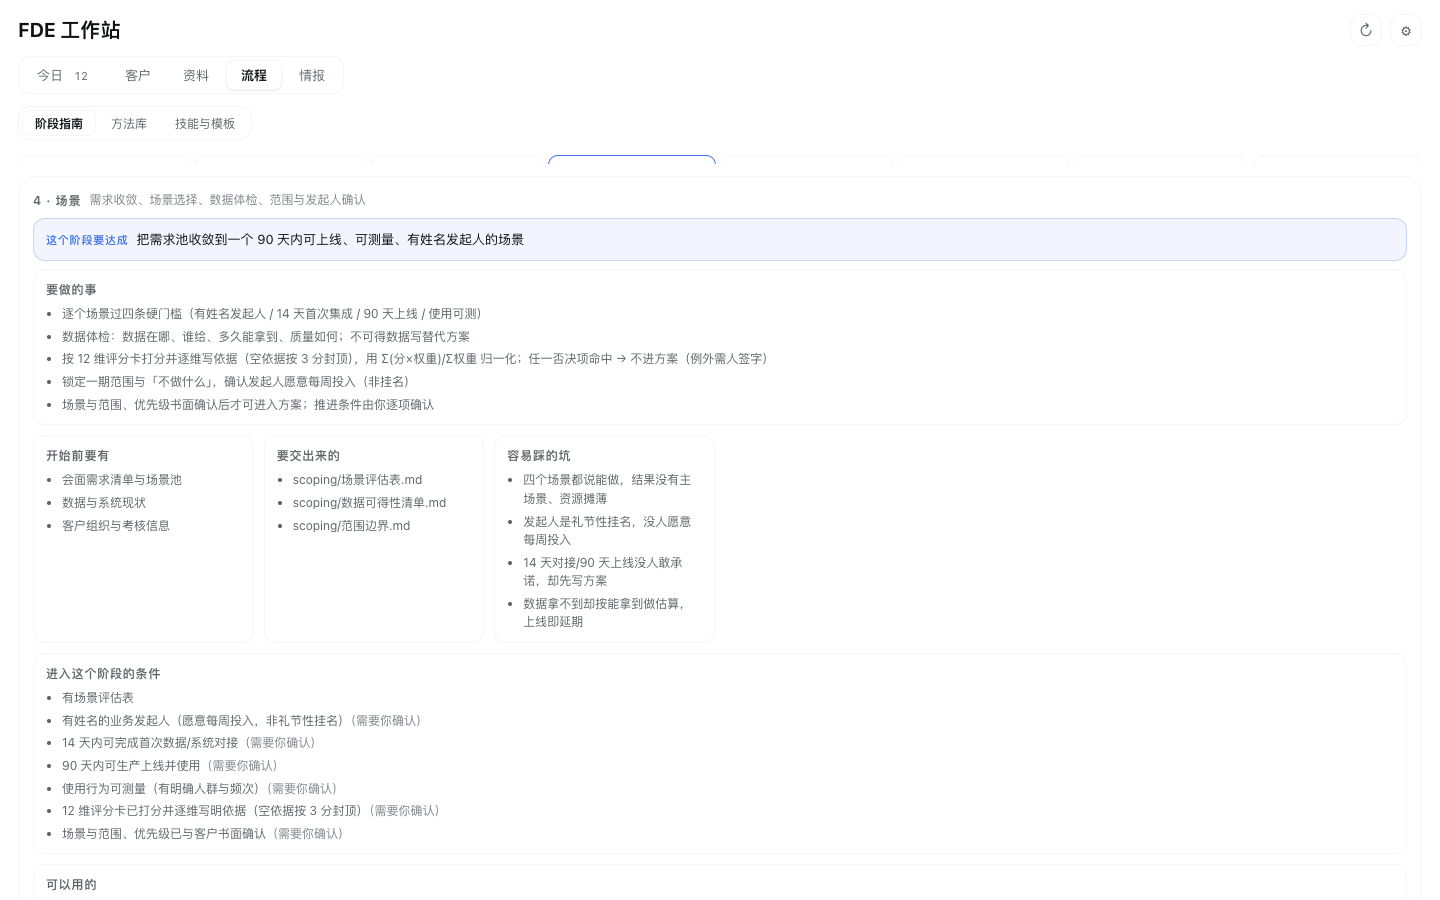
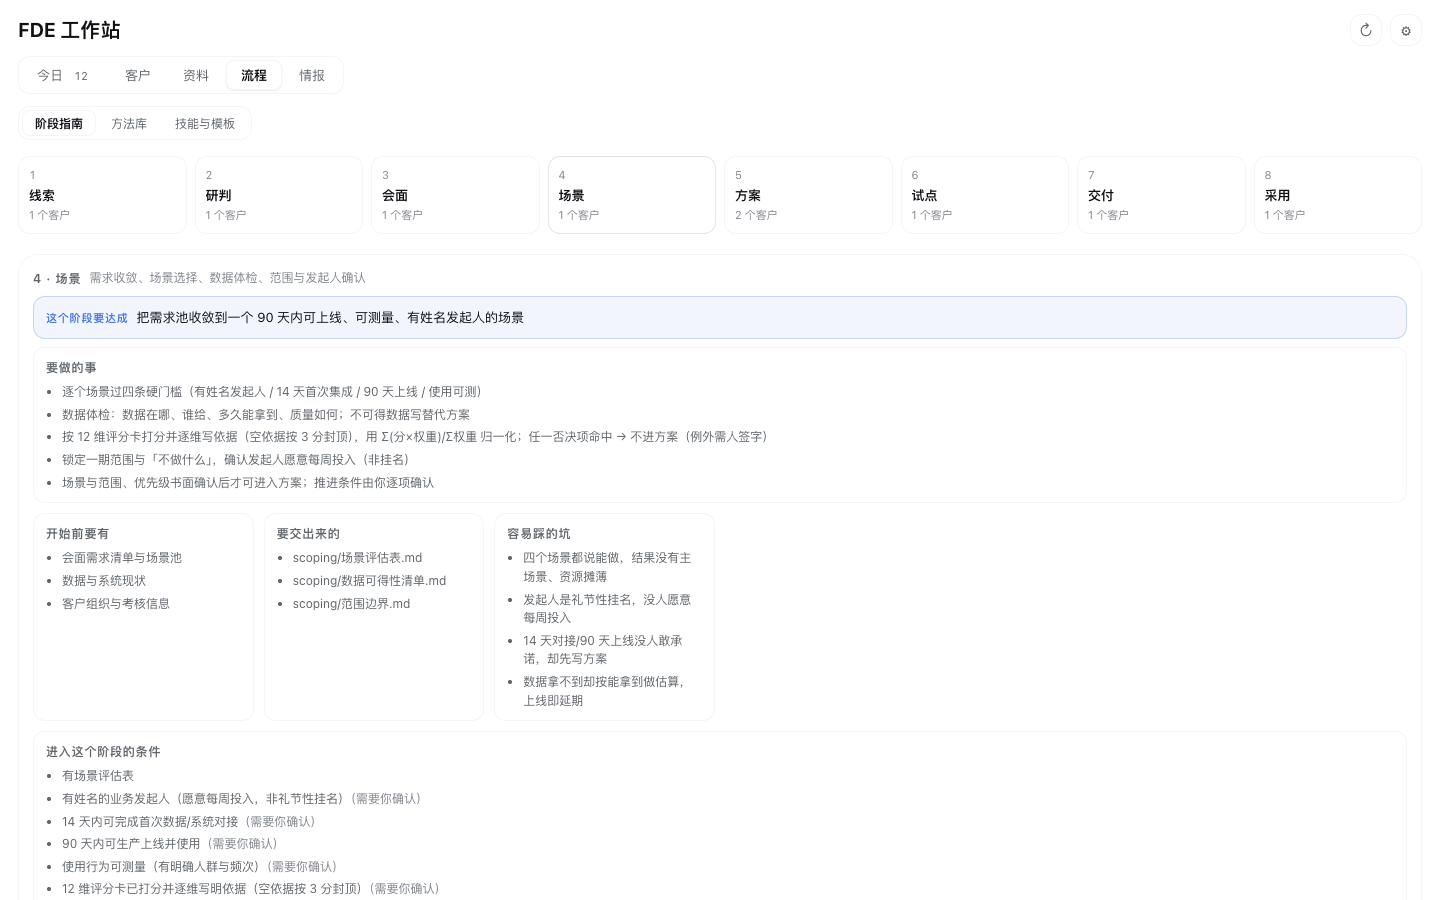
fix(panel): stop page blocks from being squashed in short windows
The stage rail on the process page collapsed to a thin line and the
customer list table was clipped with no way to scroll. Blocks with
overflow set have a zero minimum height inside a column flex layout,
so they shrank when the page content was taller than the window.

Page blocks no longer shrink by default; only blocks that fill the
remaining height and scroll inside themselves (board, today grid,
materials split view) opt in. Pages without such a block scroll as a
whole. Screenshots regenerated; static assertions and a short-window
check procedure added.

diff --git a/client.js b/client.js
@@ -246,7 +246,12 @@ window.__ModuleLoader__.load({
 
 /* ---- 主区域 ---- */
 .fde-main{flex:1 1 auto;min-height:0;overflow:auto;padding:2px 18px 24px;display:flex;flex-direction:column;gap:12px}
-.fde-view{display:flex;flex-direction:column;gap:12px;min-height:0}
+/* 页面里的区块默认不被纵向压缩。带横向滚动或裁剪的区块（阶段条、客户列表的表格）
+   在窗口不够高时会被压扁，甚至只剩一条边；内容多了应该是整页往下滚。
+   只有「占满剩余高度、在自己里面滚动」的区块才允许收缩，它们各自声明 flex:1 1 auto;min-height:0
+   （看板、今日四块、资料双栏）。下面三条的先后顺序不能换：后写的同级规则才能盖过前面的。 */
+.fde-view{display:flex;flex-direction:column;gap:12px;min-height:0;flex-shrink:0}
+.fde-view > *{flex-shrink:0}
 .fde-view-fill{flex:1 1 auto;min-height:0}
 
 /* ---- 通用：按钮 / 输入 / 芯片 / 卡片 ---- */
@@ -448,7 +453,7 @@ window.__ModuleLoader__.load({
 .fde-stat-num-sm{font-size:13px;font-weight:600;letter-spacing:0;line-height:1.4;word-break:break-word}
 
 /* ---- 流程 v2（v1.3，spec §20.5）：阶段步进 / 详情 / 工具 chips / 矩阵 ---- */
-.fde-flow{display:flex;gap:8px;overflow-x:auto;padding:4px 0 8px;align-items:stretch}
+.fde-flow{display:flex;gap:8px;overflow-x:auto;padding:4px 0 8px;align-items:stretch;flex:0 0 auto}
 .fde-flow-step{flex:1 1 0;min-width:104px;display:flex;flex-direction:column;gap:3px;padding:9px 10px;
   border-radius:var(--dsw-radius-md,12px);border:0.5px solid var(--fde-border);background:var(--fde-surface-2);
   color:var(--fde-text);cursor:pointer;text-align:left;font:inherit;transition:border-color .15s,background .15s}
@@ -4984,7 +4989,7 @@ drawerAnswerPh: '你的回复（可以不填）', drawerResolve: '已处理',
           h('div', { className: 'fde-hint', style: { marginTop: 8 } }, t('libFootnote')));
       }
 
-      return h('div', { className: 'fde-view fde-view-fill' }, topCard, featuredBlock, listCard);
+      return h('div', { className: 'fde-view' }, topCard, featuredBlock, listCard);
     }
 
     /* ============================================================
@@ -5178,7 +5183,7 @@ drawerAnswerPh: '你的回复（可以不填）', drawerResolve: '已处理',
           ],
         })) : null;
 
-      return h('div', { className: 'fde-view fde-view-fill' },
+      return h('div', { className: 'fde-view' },
         !hasPlaybook && stages.length ? h(MsgLine, { kind: 'warn', text: t('processNoPlaybook') }) : null,
         stages.length
           ? h('div', { className: 'fde-flow', role: 'tablist', 'aria-label': t('processTitle') }, stages.map(stepNode))
@@ -6264,7 +6269,8 @@ drawerAnswerPh: '你的回复（可以不填）', drawerResolve: '已处理',
     function CustomersPage(props) {
       const p = props || {};
       const tab = p.tab === 'board-item' ? 'board-item' : (p.tab === 'list' ? 'list' : 'board-customer');
-      return h('div', { className: 'fde-view fde-view-fill' },
+      /* 看板在自己里面滚动，要占满高度；列表跟着整页滚 */
+      return h('div', { className: 'fde-view' + (tab === 'list' ? '' : ' fde-view-fill') },
         PageTabs({
           ariaLabel: t('customersViews'),
           value: tab,
@@ -6301,7 +6307,7 @@ drawerAnswerPh: '你的回复（可以不填）', drawerResolve: '已处理',
     function KnowledgePage(props) {
       const p = props || {};
       const tab = p.tab === 'bids' ? 'bids' : 'library';
-      return h('div', { className: 'fde-view fde-view-fill' },
+      return h('div', { className: 'fde-view' },
         PageTabs({
           ariaLabel: t('knowledgeTabs'),
           value: tab,
@@ -6322,7 +6328,7 @@ drawerAnswerPh: '你的回复（可以不填）', drawerResolve: '已处理',
     function ProcessPage(props) {
       const p = props || {};
       const tab = p.tab === 'methods' || p.tab === 'skills' ? p.tab : 'flow';
-      return h('div', { className: 'fde-view fde-view-fill' },
+      return h('div', { className: 'fde-view' },
         PageTabs({
           ariaLabel: t('processTabs'),
           value: tab,

diff --git a/src/ui/ui-panel.js b/src/ui/ui-panel.js
@@ -246,7 +246,12 @@ window.__ModuleLoader__.load({
 
 /* ---- 主区域 ---- */
 .fde-main{flex:1 1 auto;min-height:0;overflow:auto;padding:2px 18px 24px;display:flex;flex-direction:column;gap:12px}
-.fde-view{display:flex;flex-direction:column;gap:12px;min-height:0}
+/* 页面里的区块默认不被纵向压缩。带横向滚动或裁剪的区块（阶段条、客户列表的表格）
+   在窗口不够高时会被压扁，甚至只剩一条边；内容多了应该是整页往下滚。
+   只有「占满剩余高度、在自己里面滚动」的区块才允许收缩，它们各自声明 flex:1 1 auto;min-height:0
+   （看板、今日四块、资料双栏）。下面三条的先后顺序不能换：后写的同级规则才能盖过前面的。 */
+.fde-view{display:flex;flex-direction:column;gap:12px;min-height:0;flex-shrink:0}
+.fde-view > *{flex-shrink:0}
 .fde-view-fill{flex:1 1 auto;min-height:0}
 
 /* ---- 通用：按钮 / 输入 / 芯片 / 卡片 ---- */
@@ -448,7 +453,7 @@ window.__ModuleLoader__.load({
 .fde-stat-num-sm{font-size:13px;font-weight:600;letter-spacing:0;line-height:1.4;word-break:break-word}
 
 /* ---- 流程 v2（v1.3，spec §20.5）：阶段步进 / 详情 / 工具 chips / 矩阵 ---- */
-.fde-flow{display:flex;gap:8px;overflow-x:auto;padding:4px 0 8px;align-items:stretch}
+.fde-flow{display:flex;gap:8px;overflow-x:auto;padding:4px 0 8px;align-items:stretch;flex:0 0 auto}
 .fde-flow-step{flex:1 1 0;min-width:104px;display:flex;flex-direction:column;gap:3px;padding:9px 10px;
   border-radius:var(--dsw-radius-md,12px);border:0.5px solid var(--fde-border);background:var(--fde-surface-2);
   color:var(--fde-text);cursor:pointer;text-align:left;font:inherit;transition:border-color .15s,background .15s}
@@ -4984,7 +4989,7 @@ drawerAnswerPh: '你的回复（可以不填）', drawerResolve: '已处理',
           h('div', { className: 'fde-hint', style: { marginTop: 8 } }, t('libFootnote')));
       }
 
-      return h('div', { className: 'fde-view fde-view-fill' }, topCard, featuredBlock, listCard);
+      return h('div', { className: 'fde-view' }, topCard, featuredBlock, listCard);
     }
 
     /* ============================================================
@@ -5178,7 +5183,7 @@ drawerAnswerPh: '你的回复（可以不填）', drawerResolve: '已处理',
           ],
         })) : null;
 
-      return h('div', { className: 'fde-view fde-view-fill' },
+      return h('div', { className: 'fde-view' },
         !hasPlaybook && stages.length ? h(MsgLine, { kind: 'warn', text: t('processNoPlaybook') }) : null,
         stages.length
           ? h('div', { className: 'fde-flow', role: 'tablist', 'aria-label': t('processTitle') }, stages.map(stepNode))
@@ -6264,7 +6269,8 @@ drawerAnswerPh: '你的回复（可以不填）', drawerResolve: '已处理',
     function CustomersPage(props) {
       const p = props || {};
       const tab = p.tab === 'board-item' ? 'board-item' : (p.tab === 'list' ? 'list' : 'board-customer');
-      return h('div', { className: 'fde-view fde-view-fill' },
+      /* 看板在自己里面滚动，要占满高度；列表跟着整页滚 */
+      return h('div', { className: 'fde-view' + (tab === 'list' ? '' : ' fde-view-fill') },
         PageTabs({
           ariaLabel: t('customersViews'),
           value: tab,
@@ -6301,7 +6307,7 @@ drawerAnswerPh: '你的回复（可以不填）', drawerResolve: '已处理',
     function KnowledgePage(props) {
       const p = props || {};
       const tab = p.tab === 'bids' ? 'bids' : 'library';
-      return h('div', { className: 'fde-view fde-view-fill' },
+      return h('div', { className: 'fde-view' },
         PageTabs({
           ariaLabel: t('knowledgeTabs'),
           value: tab,
@@ -6322,7 +6328,7 @@ drawerAnswerPh: '你的回复（可以不填）', drawerResolve: '已处理',
     function ProcessPage(props) {
       const p = props || {};
       const tab = p.tab === 'methods' || p.tab === 'skills' ? p.tab : 'flow';
-      return h('div', { className: 'fde-view fde-view-fill' },
+      return h('div', { className: 'fde-view' },
         PageTabs({
           ariaLabel: t('processTabs'),
           value: tab,

diff --git a/CHANGELOG.md b/CHANGELOG.md
@@ -39,6 +39,7 @@
 - 从客户抽屉跳到阶段指南后，以后每次打开流程页都停在那个阶段。
 - 按提醒处理「没定下一步」时，如果你已经自己写了下一步，会被占位文字覆盖。现在只补空着的。
 - 导入文件夹后的结果提示一闪而过，而且报的是勾选数不是实际导入数。
+- **阶段指南的阶段条被压扁，只剩一条边**；客户列表在窗口不够高时下半截被裁掉、也滚不动。原因是带滚动或裁剪的区块在高度受限的页面里被纵向压缩。现在页面里的区块默认不压缩，内容多了整页往下滚；只有看板、今日四块、资料双栏在自己里面滚动。这个问题是装到桌面端后才发现的——发布时配的流程页截图里其实已经坏了，没有逐张看出来。截图已重做，并补了矮窗口下的检查方法（`docs/DEVELOPING.md` §6）。
 
 ### DSH 0.2.1 兼容
 
@@ -65,9 +66,9 @@
 ### 开发
 
 - `node build.mjs` 新增两项检查：文案字典完整、面板禁词（实现在 `tools/panel-checks.mjs`）。
-- 验证：宿主测试 318 → 492 项，面板准运行时测试 191 → 245 项，面板静态检查 105 → 132 项，独立审计 669 → 696 项。界面契约体检 8 项全过、漂移 0 项（1.7.0 是 2 项漂移）。
+- 验证：宿主测试 318 → 492 项，面板准运行时测试 191 → 245 项，面板静态检查 105 → 136 项，独立审计 669 → 696 项。界面契约体检 8 项全过、漂移 0 项（1.7.0 是 2 项漂移）。
 - 发布前请了一次独立代码审查：没有发现会报错或写坏数据的问题；指出的 9 条行为缺陷已全部修复并补了测试（见上面「修掉的缺陷」后半段）。
-- 样式表清掉 42 条已无引用的规则；文案字典清掉 51 个废弃 key。客户端体积 386.8KB → 380.2KB。
+- 样式表清掉 42 条已无引用的规则；文案字典清掉 51 个废弃 key。客户端体积 386.8KB → 380.4KB。
 
 ### 已知限制
 

diff --git a/docs/DEVELOPING.md b/docs/DEVELOPING.md
@@ -130,6 +130,14 @@ python3 probe.py           # DOM 度量
 
 它直接加载 `ui-panel.js` 源码、伪造 `slots`/`uiWorkspace`、用插件自己的宿主业务层跑合成数据；改完面板用它截图**亲眼看过**再提交。真实宿主行为（登录态、窗口 chrome、用户字号）仍需重启后人工验收。
 
+**矮窗口也要看。** 只看 1440×900 会漏掉被压扁的区块：2.0.0 的阶段条和客户列表就是这样漏的（截图里其实已经坏了，没有人逐张看）。改了布局，至少在 1440×620 和 900×520 再截一遍，并检查有没有这样的区块：自己带滚动或裁剪（`overflow` 不是 `visible`），内容高度却超过自身高度，而它又不是设计成纵向滚动的容器。
+
+布局规则（`ui-panel.js` 的样式表里有同样的注释）：
+
+- 页面里的区块默认不被纵向压缩（`.fde-view > *{flex-shrink:0}`），内容多了整页往下滚。
+- 只有「占满剩余高度、在自己里面滚动」的区块才允许收缩，自己声明 `flex:1 1 auto;min-height:0`——目前是看板、今日四块、资料双栏。它们所在的页面才用 `fde-view-fill`。
+- 新增带 `overflow` 的区块（横向滚动条、圆角裁剪的表格）时，先想清楚它属于哪一类。
+
 > v2.0 起面板按文档 base 解析接口地址（与 DSH 0.2.1 一致）。这个 harness 的页面在 `/harness/` 下，要在 `page.html` 的 `<head>` 里加一行 `<base href="/">`，接口才会打到 `/research-workbench/api/…`；推进条件核对（`POST /fde/gate`，不带 `checks` / `force`）和文件预览（`GET /api/file`）也要在 `server.mjs` 里接到真实实现，否则抽屉显示「核对中」、预览显示读取失败。
 
 ## 7. 发布

diff --git a/AGENTS.md b/AGENTS.md
@@ -100,6 +100,7 @@
 16. **面板文案**：新文案进 `DICT`（或就地写中文），不拼接 key；`node build.mjs` 会拦缺 key 与禁词（清单在 `tools/panel-checks.mjs`）。说明文字只留三类：后果提示、空状态的下一步、口径提示。
 17. **提醒口径（spec §22.2）**：与「待我处理」重复的四条规则（`stall` / `overdue` / `gate_ready` / `review_lag`）标 `derived`，不生成提醒；条件不成立的提醒自动失效；无变化时读取不写盘。
 18. **阶段口径（spec §22.9）**：推进条件属于**要进入的那个阶段**——客户停在某一列，表示这一列的材料已经有了。抽屉里的推进条件、看板卡片的「待确认」、交给 AI 用的做法与技能、指南链接，四处都取要进入的阶段（最后一个阶段取当前阶段）；改其中一处要同时核对另外三处。
+19. **布局口径**：页面里的区块默认不被纵向压缩，内容多了整页往下滚；只有「占满剩余高度、在自己里面滚动」的区块（看板、今日四块、资料双栏）自己声明 `flex:1 1 auto;min-height:0`，所在页面才用 `fde-view-fill`。改布局后在矮窗口（1440×620、900×520）下看过再提交，说明见 `docs/DEVELOPING.md` §6。
 
 ## 禁区（CRITICAL）
 
